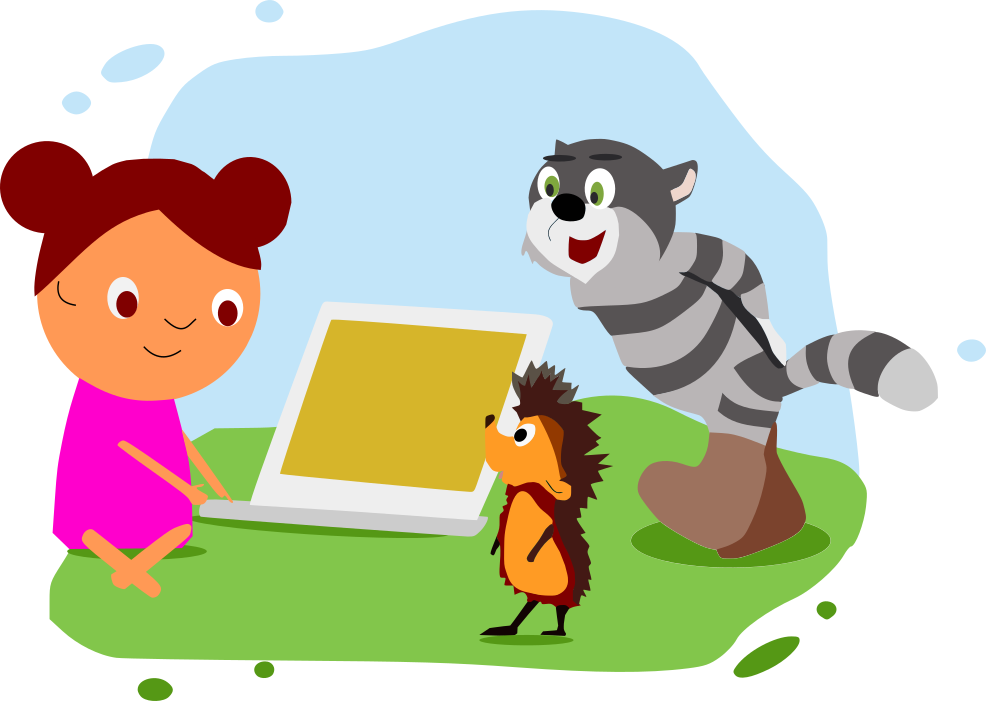
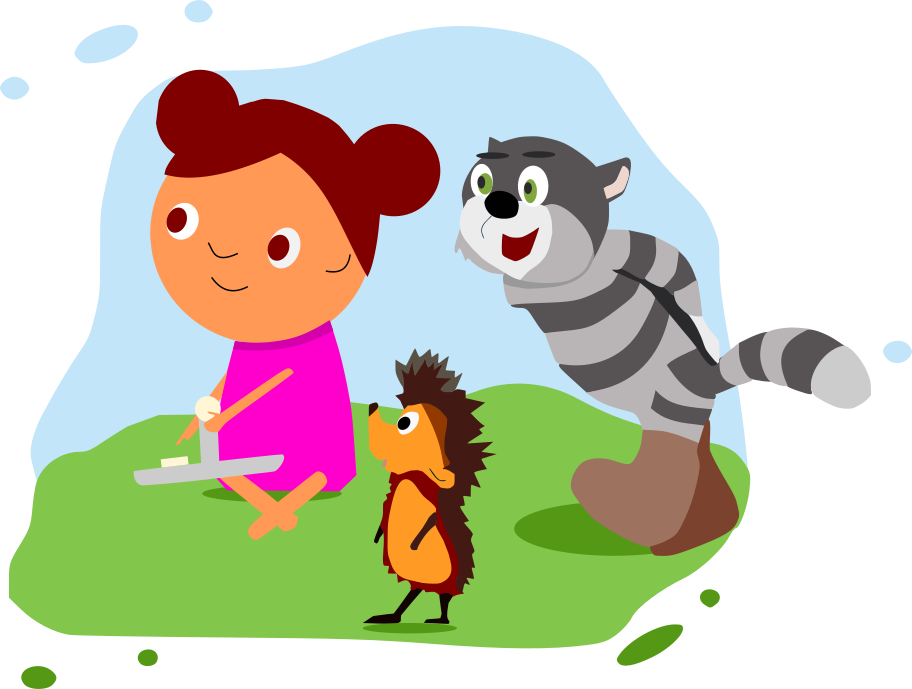
new style promo +typing animation

diff --git a/src/screens/landing/section/Promo.tsx b/src/screens/landing/section/Promo.tsx
@@ -2,21 +2,33 @@ import React from "react";
 import H1 from "../../../ui-library/H1";
 import H2 from "../../../ui-library/H2";
 import { converstation } from "../../../store/static";
+import Typewriter from 'typewriter-effect';
 function Promo() {
   return (
-    <div className=" md:h-screen sm:h-auto">
-        <div className="text-center">
-          <H1 children={converstation.promo.title} btn-primary />
+    <div className="grid md:grid-cols-2 sm:grid-cols-1 h-screen  text-center ml-10 mr-10 ">
+      <div className="text-center sm:text-left mt-[20%]">
+        <div className="h-3/6  ">
+          <H1 children={<Typewriter
+            options={{
+              strings: [`${converstation.promo.title}`],
+              autoStart: true,
+              loop: true,
+            }}
+          />} btn-primary  />
         </div>
-      <div className="mt-20  text-center">
-        <H2
-          children={converstation.promo.subtitle}
-          fontsizeprimary="h2-font-ize-primary"
-        />
+        <div className="lg:mt-20 md:mt-0 sm:mt-0">    
+              <H2
+            children={converstation.promo.subtitle}
+            fontsizeprimary="h2-font-ize-primary"
+            fontfamilysecondary='font-sans'
+            fontcolorsecondary='text-stone-500'
+          />
+
+        </div>
       </div>
-      <img src={converstation.promo.img}  className="mt-10  md:w-5/12 sm:w-auto ml-auto mr-auto "/>
+      <img src={converstation.promo.img}   className="mt-[20%] w-10/12 ml-auto mr-auto"/>
     </div>
-  );
+  )
 }
 
 export default Promo;

diff --git a/src/ui-library/H2.tsx b/src/ui-library/H2.tsx
@@ -4,6 +4,7 @@ function H2(props: {
   fontsizesecondary?: string;
   fontsizeprimary?: string;
   fontcolorsecondary?:string;
+  fontfamilysecondary?:string;
   children:
     | string
     | number
@@ -16,7 +17,7 @@ function H2(props: {
 }) {
   return (
     <h2
-      className={`${props.fontsizesecondary} ${props.fontsizeprimary} ${props.fontcolorsecondary} text-yellow-500 font-semibold`}
+      className={`${props.fontsizesecondary} ${props.fontsizeprimary} ${props.fontcolorsecondary} ${props.fontfamilysecondary} text-yellow-500 font-semibold`}
     >
       {props.children}
     </h2>

diff --git a/src/store/static.ts b/src/store/static.ts
@@ -23,8 +23,8 @@ import appstore from '../assets/app-store-badge.png'
 import googlestore from '../assets/google-play-badge.png'
 export const converstation={
     promo:{
-        'title':'Be a pioneer witch a new language!',
-        'subtitle':'Pioneers is an effective service for learning Vietnamese',
+        'title':'Let’s make learning <span style="color: #529312;"> Vietnamese language </span>fun and accessible!',
+        'subtitle':'PioneerS is an effective service for learning language in any place - all  for FREE!',
         'img': pioneers
     },
     baner:[{

diff --git a/src/ui-library/H1.tsx b/src/ui-library/H1.tsx
@@ -13,7 +13,7 @@ function H1(props: {
     | any;
 }) {
   return (
-    <h1 className="md:text-5xl text-[#260105]	font-semibold sm:text-xl">
+    <h1 className="lg:text-[48px] md:text-[20px] sm:text-[20px] text-[#260105]	font-semibold  lg:leading-[6rem] md:leading-[2rem] sm:leading-[1rem]">
       {props.children}
     </h1>
   );
